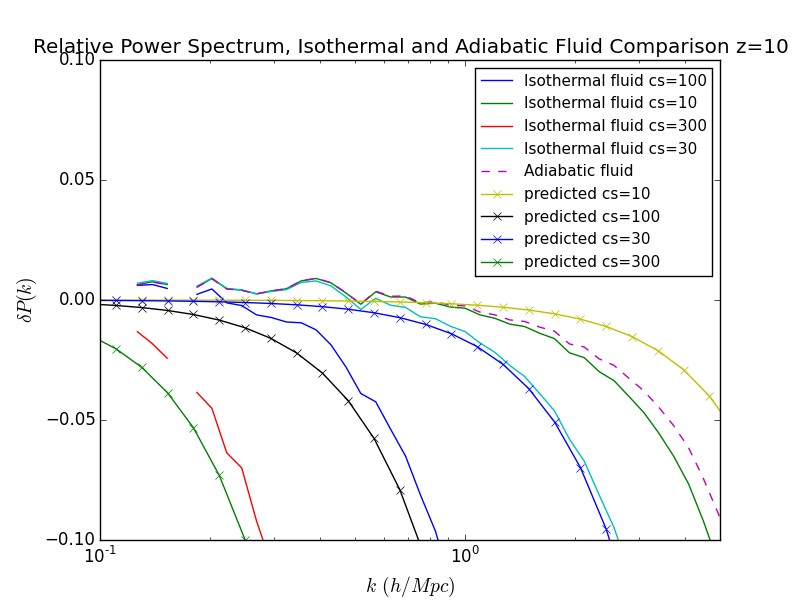
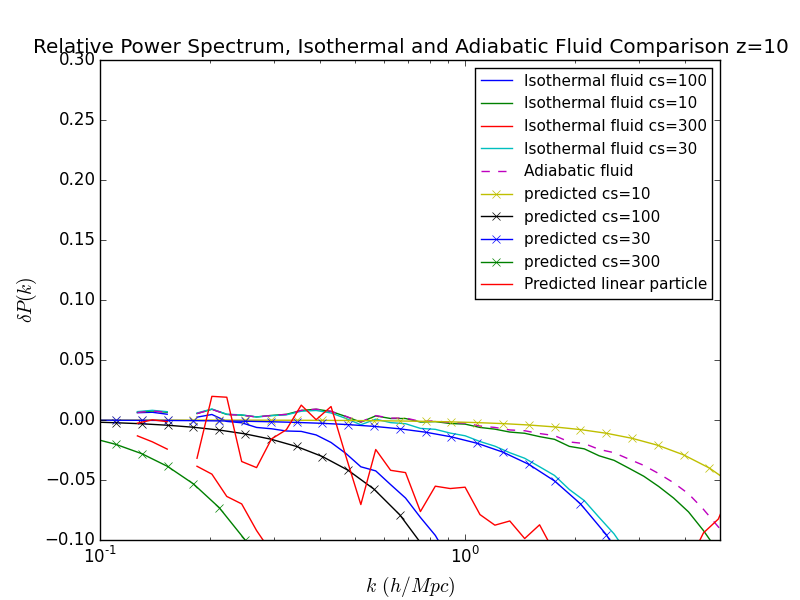
Modified particle prediction lines to include linear growth predictions.

diff --git a/plots/isothermal/isothermal_fluid_low_adiabatic_normalized_particle_z10_minpressure.py b/plots/isothermal/isothermal_fluid_low_adiabatic_normalized_particle_z10_minpressure.py
@@ -10,14 +10,15 @@ isothermalpattern = re.compile(r'_iso(\d+)')
 testgrowthpattern = re.compile(r'testgrowthcs(\d+)')
 npattern = re.compile(r'_n(\d+)')
 
+base = 'particle_b100_n1024_t0.005_h2_z100_z10.out'
+kvalues_base, ps_base = np.loadtxt(result_dir+base, unpack=True)
+
 simtypes = ['fluid']
 for simtype in simtypes:
     params = [simtype,'b100','n1024','t0.005','h2','iso','z10_','z100']
     filenames = [filename for filename in results if all(param in filename for param in params)]
     filenames.append('fluid_b100_n1024_t0.005_h2_z100_z10.out')
-    base = 'particle_b100_n1024_t0.005_h2_z100_z10.out'
-    
-    kvalues_base, ps_base = np.loadtxt(result_dir+base, unpack=True)
+
 
     for filename in filenames:
         if 'iso' in filename and 'minpressure16' in filename:
@@ -43,8 +44,14 @@ for filename in filenames:
         #ps /= 4*np.pi**2
         plt.semilogx(kvalues, ps, style, label=label)
 
+linear_kvalues, linear_ps = np.loadtxt(result_dir+'particle_b100_n1024_t0.005_h2_z100_z100.out', unpack=True)
+linear_ps*=5983.9
+linear_ps/=70.6
+linear_ps = (linear_ps - ps_base)/ps_base
+plt.semilogx(linear_kvalues, linear_ps, '-', label='Predicted linear particle')
+
 plt.xlim([1e-1,5e0])
-plt.ylim([-0.1,0.1])
+plt.ylim([-0.1,0.3])
 plt.xlabel('$k \, (h/Mpc)$', fontsize=14)
 plt.ylabel('$\delta P(k)$', fontsize=14)
 plt.title('Relative Power Spectrum, Isothermal and Adiabatic Fluid Comparison z=10')

diff --git a/plots/isothermal/isothermal_fluid_low_adiabatic_normalized_particle_minpressure.py b/plots/isothermal/isothermal_fluid_low_adiabatic_normalized_particle_minpressure.py
@@ -32,8 +32,11 @@ for simtype in simtypes:
             ps = (ps - ps_base)/ps_base
             plt.semilogx(kvalues, ps, '--', label='Adiabatic fluid')
 
-linear_kvalues, linear_ps = np.loadtxt(result_dir+'particle_b100_n1024_t0.005_h2_z100_z100.out', unpack=True)
-linear_ps*=5983.9
+
+base = 'fluid_b200_n1024_t0.005_h2_z50.out'
+kvalues_base, ps_base = np.loadtxt(result_dir+base, unpack=True)
+linear_kvalues, linear_ps = np.loadtxt(result_dir+'fluid_b200_n1024_t0.005_h2_z10.out', unpack=True)
+linear_ps*=70.6
 linear_ps = (linear_ps - ps_base)/ps_base
 plt.semilogx(linear_kvalues, linear_ps, '-', label='Predicted linear particle')
 
